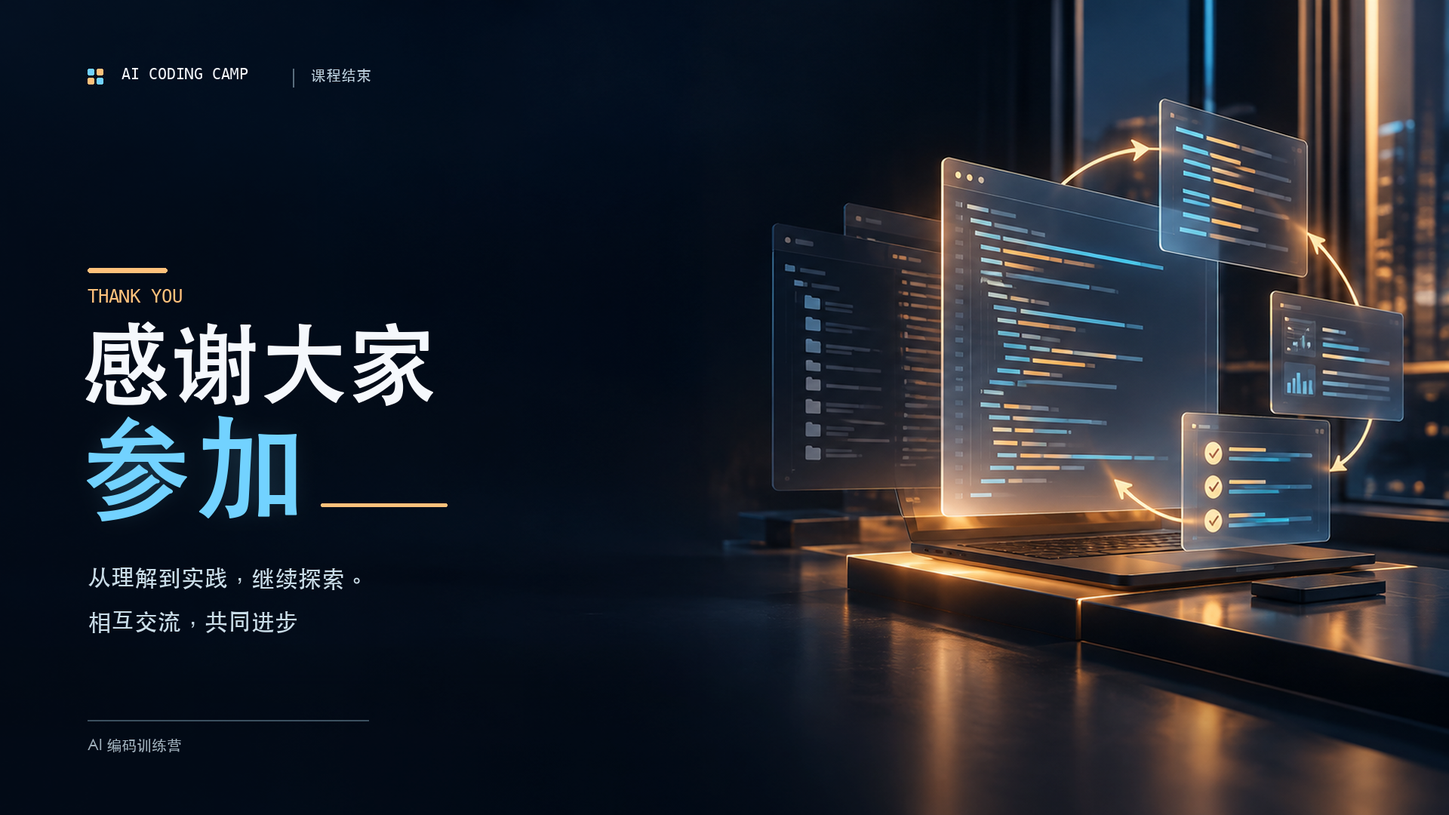
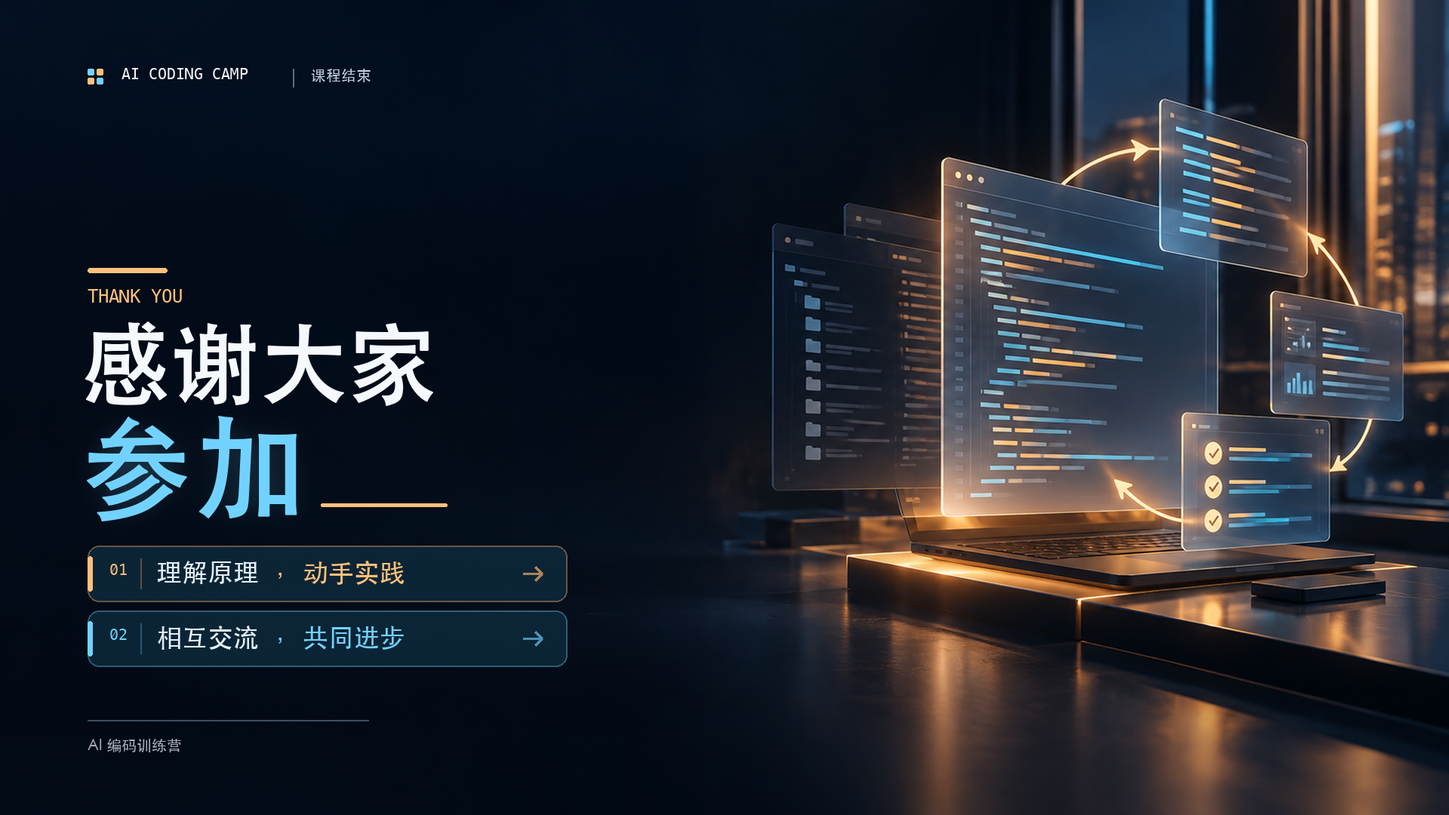
adjust final page

Changed region(s): [[0.0625, 0.6722, 0.4062, 0.825]]

diff --git a/output/ai-coding-camp/index.html b/output/ai-coding-camp/index.html
@@ -453,9 +453,9 @@
     </section>
 
     <section class="slide closing-slide" data-title="感谢大家参加" aria-label="结束封面：感谢大家参加 AI 编码训练营">
-      <img class="closing-art" src="closing-cover.png" alt="感谢大家参加 AI 编码训练营。从理解到实践，继续探索。相互交流，共同进步。背景是编码工作流插画。">
+      <img class="closing-art" src="closing-cover.png" alt="感谢大家参加 AI 编码训练营。理解原理，动手实践；相互交流，共同进步。背景是编码工作流插画。">
       <div class="notes">
-        <p>感谢大家参加 AI 编码训练营。结束页与开场封面使用同一张编码工作流插画；收尾寄语是“从理解到实践，继续探索。相互交流，共同进步”。</p>
+        <p>感谢大家参加 AI 编码训练营。结束页与开场封面使用同一张编码工作流插画；收尾寄语是“理解原理，动手实践；相互交流，共同进步”。上下两句各为四字加四字，作为课程方法与同伴交流的呼应。</p>
       </div>
     </section>
 

diff --git a/output/ai-coding-camp/build-closing-cover.py b/output/ai-coding-camp/build-closing-cover.py
@@ -36,7 +36,7 @@ cn_small = font(
         "/System/Library/Fonts/STHeiti Medium.ttc",
         "/System/Library/Fonts/Hiragino Sans GB.ttc",
     ],
-    31,
+    34,
 )
 cn_footer = font(
     [
@@ -61,15 +61,30 @@ mono_kicker = font(
 )
 
 
-def draw_chinese_line(draw: ImageDraw.ImageDraw, text: str, x: int, y: int, fill: tuple[int, int, int, int]) -> None:
-    """Place full-width punctuation at the same visual baseline as the Hanzi."""
-    cursor = float(x)
+def draw_motto_row(
+    draw: ImageDraw.ImageDraw,
+    y: int,
+    number: str,
+    left: str,
+    right: str,
+    accent: tuple[int, int, int, int],
+) -> None:
+    """Render matching four-character halves with a baseline-aligned comma."""
+    draw.rounded_rectangle(
+        (116, y, 751, y + 74), radius=15,
+        fill=(13, 42, 61, 204), outline=(*accent[:3], 105), width=2,
+    )
+    draw.rounded_rectangle((116, y + 14, 122, y + 60), radius=3, fill=accent)
+    draw.text((145, y + 24), number, font=mono, fill=accent, anchor="lt")
+    draw.line((186, y + 17, 186, y + 57), fill=(*accent[:3], 95), width=2)
+    text_y = y + 20
+    draw.text((207, text_y), left, font=cn_small, fill=(228, 240, 247, 255), anchor="lt")
+    comma_height = cn_small.getbbox("，", anchor="lt")[3]
     hanzi_height = cn_small.getbbox("进", anchor="lt")[3]
-    for char in text:
-        glyph_height = cn_small.getbbox(char, anchor="lt")[3]
-        punctuation_shift = hanzi_height - glyph_height if char in "，。" else 0
-        draw.text((round(cursor), y + punctuation_shift), char, font=cn_small, fill=fill, anchor="lt")
-        cursor += draw.textlength(char, font=cn_small)
+    draw.text((354, text_y + hanzi_height - comma_height), "，", font=cn_small, fill=accent, anchor="lt")
+    draw.text((401, text_y), right, font=cn_small, fill=accent, anchor="lt")
+    draw.line((693, y + 37, 718, y + 37), fill=(*accent[:3], 170), width=3)
+    draw.line((709, y + 28, 718, y + 37, 709, y + 46), fill=(*accent[:3], 170), width=3)
 
 base = Image.open(HERE / "cover.png").convert("RGBA")
 base = base.resize(SIZE, Image.Resampling.LANCZOS)
@@ -121,8 +136,8 @@ base = Image.alpha_composite(base, glow)
 draw.text((108, 427), "感谢大家", font=cn_font, fill=white, stroke_width=1, anchor="lt")
 draw.text((108, 552), "参加", font=cn_large, fill=cyan, stroke_width=1, anchor="lt")
 draw.rounded_rectangle((425, 667, 592, 671), radius=2, fill=amber)
-draw_chinese_line(draw, "从理解到实践，继续探索。", 116, 752, soft)
-draw_chinese_line(draw, "相互交流，共同进步", 116, 810, soft)
+draw_motto_row(draw, 723, "01", "理解原理", "动手实践", amber)
+draw_motto_row(draw, 809, "02", "相互交流", "共同进步", cyan)
 
 draw.line((116, 954, 488, 954), fill=(161, 204, 227, 92), width=2)
 draw.text((116, 978), "AI 编码训练营", font=cn_footer, fill=(204, 222, 233, 200), anchor="lt")

diff --git a/output/ai-coding-camp/AI编码训练营_逐页课堂讲稿.md b/output/ai-coding-camp/AI编码训练营_逐页课堂讲稿.md
@@ -1,0 +1,188 @@
+# AI 编码训练营｜逐页课堂讲稿
+
+对应课件：[index.html](index.html)，共 24 页。下面的正文可直接按口语讲述；*【操作】* 是放映、提问或现场演示提示，不必念出。涉及练习项目的构建、测试和提交，均指独立的 `myls` 练习仓库，不是在本课程资料仓库操作。
+
+## 第 1 页｜AI 编码训练营
+
+大家好，欢迎来到 AI 编码训练营。今天我们按“先理解，再动手”的顺序走。前半部分先弄明白：编码 Agent 到底怎么工作？它为什么能够读文件、运行命令、帮我们修改代码？它又为什么有时会理解错需求，或者做出我们没要求的事？
+
+后半部分，我们会用一个小项目练手：从零实现精简版 `ls` 命令，程序名叫 `myls`。重点不只是把代码写出来，而是把需求澄清、项目约定和测试驱动开发串成一个能反复使用的工作方法。先从 Agent 的发展脉络看起。
+
+## 第 2 页｜AI 编码 Agent 的发展脉络
+
+这张时间线不用背年份，我们看能力是怎样逐渐组合起来的。早期的重点是让模型理解和生成文本；模型规模和能力提升后，人可以用对话的方式提出任务、补充信息。检索和工具调用进一步让模型有机会获取外部资料、请求执行动作。再到今天，这些能力被组织进 Cursor、Claude Code、Codex 等编码产品里。
+
+图上几个时间段是重叠的，不是一个阶段结束，下一个才开始。下面的“模型 + 工具 ≈ Agent”也只是课堂上的简化比喻：模型负责判断，工具提供行动的可能。真正跑起来，还需要有一套机制组织上下文、执行工具、处理结果并控制何时结束。我们下一页就把这套机制拆开看。
+
+## 第 3 页｜最小 Agent 的运行时序
+
+这张图有五个角色：用户、Agent、会话上下文、语言模型和工具。举个例子，我们说“帮我看看项目里有哪些文件”。Agent 会先整理这轮问题和相关历史，再把当前可见的信息、可用工具一起交给模型。
+
+模型可能判断：“我得先列一下目录。”这里要注意，**模型提出工具调用请求，Agent 才负责实际执行**。工具返回文件列表，或者返回一个错误，Agent 都会记录下来，再把更新后的信息交给模型判断。需要更多信息，就继续调用工具；不需要了，模型给出最终答复，Agent 再回复用户并保存本轮记录。
+
+所以，一次任务可能是“思考、调用工具、看结果、再思考”的循环，也可能一步就直接回答。下一页换一张流程图，看看 Agent 在这个循环里还要把住哪些关口。
+
+## 第 4 页｜AI Agent 的最小运行框架
+
+从左往右看，Agent 先组装本轮请求。用户刚说的话、必要的会话历史、项目规则和工具说明，都可能成为模型这次能看到的信息。模型据此决定下一步：直接答复，或者请求某个工具。
+
+如果模型要调用工具，Agent 还得检查参数是否合理、有没有权限、是否超过运行上限，然后才能执行。执行完成后，再把输出、错误或状态交回模型。这一步可以重复很多次，也可能一次都不发生。
+
+有两个边界请大家记住：模型并不是自己在终端里敲命令；而如果工具被拒绝、超时或达到上限，也应如实说明，不能把“停止了”说成“完成了”。这张图是通用工作方式的教学示意，不代表某个产品的全部内部细节。既然框架是相通的，具体用哪个编码 Agent，就值得按任务来选。
+
+## 第 5 页｜Claude Code 不是唯一选择
+
+课程后面会用 Claude Code 做演示，但它只是可选工具之一。图上的每个点，是一组模型、Agent 和推理设置在 Databricks 自有代码任务上的评测结果；横向看成本，纵向看通过率。它能提醒我们：换一个组合，成本和表现都可能变化。
+
+不过，别把这张图当成所有项目通用的产品排行榜。评测任务、模型、设置不同，结果就可能不同；某个点更高，也不能简单说都是 Agent 品牌带来的差别。更实用的选择方法，是拿自己项目里的**同一个真实任务**试跑几种组合，比较完成质量、耗时、成本和操作体验。找到适合自己工作流的，比追一个统一的“第一名”有用。接下来，我们看看无论用哪个 Agent，都绕不开的上下文问题。
+
+## 第 6 页｜Agent 会话中的消息持续累积
+
+*【操作】让动画播放几秒，等消息增长到十几条时稍作停顿。*
+
+请看画面：从规则和用户问题开始，接着可能有模型发出的工具请求、工具返回的结果、模型给出的答复。下一轮提问来了，就继续往后追加。图中已经不止七条消息了，中间和末尾的省略号表示还有更多记录，并不是说一段会话只能保存画面上这些内容。
+
+连工具请求和工具结果也各自占一条记录，所以做几步操作后，会话很容易变长。但这里要分清两件事：**会话保存了多少消息**，和**某一次模型调用实际看见多少内容**，不一定相同。具体产品可能截取、摘要或按需组织历史。那当本轮可见的信息也变得很长时，会有什么影响？下一页看一条示意曲线。
+
+## 第 7 页｜上下文变长，模型表现可能下降
+
+先看横轴，它表示**单次模型调用实际可见的上下文长度**，不是刚才那页会话保存的消息总数。纵轴是相对任务表现。曲线前段比较平稳，中间慢慢下滑，接近窗口上限时下降更快，用来表达长上下文可能带来的问题。
+
+这是一张概念图，**不是某个模型测出来的成绩曲线**。真实表现会随模型、任务、信息放在哪里，以及输入内容本身而变化；窗口上限也不是所有模型共有的一道性能断崖。我们要记住的是：能装下很多 Token，不等于每次都该装满。信息太多、太杂，重要线索就更难被聚焦。那怎样把真正有用的内容交给 Agent？下一页接着说。
+
+## 第 8 页｜消息会累积，当前上下文要精选
+
+左边是不断增长的会话记录，右边是这一轮真正需要用到的线索。我们可以先问四个问题：这轮到底要做什么，怎样才算完成？项目有哪些长期有效的规则？权威资料在哪个文件、哪个章节？前面已经验证了什么，还有什么没解决？
+
+比如，只对 Agent 说“继续修”，它很难知道我们现在最在意什么。换成“修这个失败用例；失败命令是……；实际输出是……；期望输出是……”，下一步就清楚多了。长期约定可以放在精简的项目指令中，本轮特有要求放在本轮任务里。具体如何截取或摘要历史，要看 Agent 的实现。我们再把这些想法整理成四个可操作的步骤。
+
+## 第 9 页｜四步把上下文变成可执行线索
+
+这四步可以按“目标、资料、轮次、反馈”来记。第一步，**定目标**：这次只完成什么、边界在哪里、什么结果算通过。第二步，**给线索**：指出可信的文件和章节，让 Agent 找到依据，而不是让它在一大堆材料里猜。第三步，**控轮次**：大任务拆成一个个能验收的小任务，交接时说明已完成、已验证和待解决的内容。
+
+第四步尤其重要，**用证据反馈**。如果测试失败，不只说“还是不对”，而是给出运行命令、实际输出、期望结果和相关约束；修完以后，再跑受影响的验证。这样，Agent 下一轮看到的是事实，不是一句模糊评价。当然，文字写得再好，也不能代替真实可用的工具、权限和运行环境。说到长期规则，下一页看看项目指令文件是怎样进入上下文的。
+
+## 第 10 页｜CLAUDE.md 启动时自动进入上下文
+
+*【操作】让左侧终端输入 `claude`，观察右侧上下文窗口的变化。*
+
+现在假设我们已经进入一个练习项目，里面有适用的 `CLAUDE.md`。在终端启动 Claude Code 后，它会在会话开始时读取这类项目指令。也就是说，我们还没输入具体任务，模型当前可见的信息里就已经有一份项目约定了，比如先看相关文件、只改本轮范围、修改后做验证。
+
+可以把它理解成新同事入项目前先拿到的“项目须知”，省去每次重新解释的功夫。图上的“01”表示本页强调的是**启动阶段的项目指令**，不是说它在所有系统信息里绝对排第一；右侧窗口也只是教学示意，不是真实界面截图。实际会话里可以用 `/context` 查看加载情况。既然它会反复影响后续任务，我们就得想清楚：文件里到底该写什么？
+
+## 第 11 页｜CLAUDE.md / AGENTS.md：写什么？
+
+项目指令文件不用写成一本手册。真正值得放进去的，是**长期适用、项目特有、具体可检查**的内容。可以归成四类：项目是做什么的、以哪份规格为准；源码和测试在哪些目录、真实的构建和测试命令是什么；哪些兼容性、错误处理和修改边界不能越过；以及修改后怎样验证、交付时要报告什么。
+
+比如“保证代码质量”就很空；“改完运行项目测试，并报告失败项”更容易执行。临时任务放在当前提问里，完整规格放在专门文档里，项目指令只需指向正确的位置。`CLAUDE.md` 和 `AGENTS.md` 选哪个，也要看实际使用的工具与配置；有文件不等于 Agent 一定正确加载，更不等于规则成了强制权限。理解了项目上下文怎样准备，我们就进入动手实践。
+
+## 第 12 页｜从零实现精简版ls命令
+
+从这一页开始，我们从“Agent 怎样工作”切换到“怎样和 Agent 一起开发”。练习题目是从零实现精简版 `ls`，我们的程序叫 `myls`。右边终端里的文件名和输出，只是目标效果的示意，不是现在已经运行出来的成果。
+
+这次实践有四条方法：**先澄清需求；按需求做最小实现；逐步增量开发、每步验证；测试先行，先写测试再实现。**这里的“精简版”不等于复制系统 `ls` 的所有行为。我们先别急着写代码。如果需求提出人只留下一句“从零实现精简版 ls 命令”，你会先问什么？
+
+## 第 13 页｜先把一句话需求问清楚
+
+左边这一句话听起来像个完整题目，但真正动手时，问题会接连冒出来：用什么语言？在哪个平台运行？“精简”到底包含哪些功能？怎么判断做完了？如果这些问题没人回答，不同开发者做出的程序可能都“看起来像 ls”，但彼此完全不一样。
+
+所以，我们先和需求提出人沟通，形成右边更具体的交付目标：用 C 语言，在 Linux 上开发 `myls`；说清支持的选项、路径参数数量，以及多列、颜色、递归等不做的范围。比如 `-h` 必须和 `-l` 一起使用，不能让 Agent 自己猜。输出字段、排序、时间和错误行为，再交给后面的验收契约确定。
+
+请留意最后一句：系统 `ls` 只是部分语义的参考，不是逐字节照抄的标准答案。需求澄清做的事，就是把“我以为”变成双方能够共同检查的约定。目标具体多了，如果现在一股脑交给 Agent 一次生成，会怎样？
+
+## 第 14 页｜把交付目标直接交给 Agent
+
+*【操作】先不点按钮，请学员猜一猜；听过几种猜测后，点击“揭示可能的问题”。*
+
+我们做个思想实验：把刚才的交付目标原样发给 Agent，没有补充版本控制、项目结构、开发节奏和验证方式，直接说“请一次完成”。它可能很快产出代码。可我们拿到代码后，应该检查什么？
+
+这页列出的不是必然发生的结果，而是现场演示时值得观察的风险：有没有版本历史？源码、测试和文档是否放在合适的位置？构建产物是不是混进了交付目录？如果全部功能一次写完，出错时好不好定位、好不好审核？还有一个关键点：如果先写实现、后补测试，测试会不会只是在迁就已经写好的代码？
+
+真正的结果要以独立练习仓库里的现场演示为准。为了让开发可控，我们先得把“到底要实现哪些行为”整理成清单。
+
+## 第 15 页｜需求列表
+
+经过需求分析和评审，我们拿到了这张需求列表。左边是**遇到的场景**，右边是**约定的行为**。例如，不给路径就列当前目录；给一个目录就列那个目录；给多个路径明确报错。普通模式每行输出一个名称，不显示隐藏项，并按字节序升序排列。
+
+选项也是逐个定义的：`-a` 包含以点开头的条目，包括 `.` 和 `..`；`-t` 改成按修改时间排序；`-l` 输出课程规定的固定长格式；`-h` 只改变长格式里的大小字段，单独使用要报参数错误。`--help` 应直接输出帮助并成功退出，不去读取目录。路径不存在或无权限时，错误写到标准错误，不能在标准输出里伪造结果。
+
+这张表解决的是“要覆盖哪些行为”。要做成可验收的程序，还得进一步说清字段、排序细节、时间格式和错误退出码。下一页就是更细的验收契约。
+
+## 第 16 页｜验收契约
+
+如果上一页回答“要做哪些事”，这一页回答“怎样才算做对”。规则不少，不必逐字朗读，我们抓几处最影响实现和测试的地方。
+
+先看参数：短选项可以合写或分写，选项要在路径前；路径必须是目录；`--help` 只能单独使用。再看排序：默认按名称升序；用了 `-t`，按修改时间从新到旧，时间相同还要按名称升序，这样结果才确定。读目录条目元数据时用 `lstat`，所以符号链接按链接本身处理。长格式的字段顺序、空格、UTC 时间，以及 `-h` 的大小换算，都有课程自己的固定规则，不能直接复制某台机器上的系统 `ls` 输出。
+
+下面的小例子最适合拿来写测试。`demo` 里有 `a`、`b` 和 `.hidden`：普通模式只输出 `a`、`b`；加 `-a` 后，还要包含 `.`、`..` 和隐藏项。单独用 `-h`，或者访问不存在的路径，应返回错误。如果读目录或取某个条目的元数据失败，整次操作都应失败，不能先打印一半结果。验收时要分别看**标准输出、标准错误和退出码**，不能只看屏幕上有没有几行字。有了这份契约，我们才适合搭工程骨架，按小步开发。
+
+## 第 17 页｜从需求契约进入开发
+
+现在才真正进入开发阶段。先在**独立的 `myls` 练习仓库**初始化 Git，再建工程骨架：`.gitignore`、`Makefile`、`include/`、`src/`、`tests/` 等各有位置。接着写 `CLAUDE.md`，告诉 Agent 项目目标、权威需求、真实命令、开发边界和验证方式。然后做一次 `build project skeleton` 的初次提交，留下可回退的工程起点。右侧目录树展示的是计划建立的结构，不是本课程资料仓库里的源码。
+
+之后按小步开发。图里的常见 TDD 循环是 **Red、Green、Refactor**：先写当前行为的测试并确认它失败，再写最少代码让它通过，最后整理代码并保持测试通过。本课程的实践还强调 **Review**：人要审查测试断言、实现范围和回归结果，确认后再提交。不要在 Red 阶段就把未通过的测试提交成基线。项目骨架有了，下一页具体看 `CLAUDE.md` 怎么写。
+
+## 第 18 页｜CLAUDE.md 怎么写
+
+*【操作】先问“如果现在让你写，第一稿从哪里来？”，再点击“查看两种写法”。*
+
+第一种是直接创建 Markdown 文件，自己写。适合已经熟悉项目事实，也清楚哪些约定需要长期保留的人。第二种是在 Claude Code 会话里先运行 `/init`，让它生成初稿；然后提供交付目标和协作要求，人工增删改，再请它继续优化。这里的 `/init` 和后续提示词是**连续两步**，不是一条固定的“`/init + 提示词`”命令。
+
+*【操作】打开“查看示例提示词”，展示可复制内容；返回后再打开“其他信息”。*
+
+示例里包含交付目标、开发原则和构建测试入口；“其他信息”还补上 TDD 的 Red → Green → Review 约定、提交纪律、测试视角与禁止事项。课堂上不必把长文本逐行念完，重点是提醒大家：AI 可以帮忙起草，**真实目录、命令、规则和验收依据仍要由人核对**。项目刚起步时，能供 `/init` 发现的信息也有限。写好共同的项目约定，下一页就用同一套起点比较三种开工路径。
+
+## 第 19 页｜同一任务，三条开工路径
+
+这次我们做一个对照：三次演示从相同的项目骨架、相同的 `CLAUDE.md` 出发，也使用同一句任务提示词：“开始需求开发，需求场景：无路径参数；行为：列出当前目录。”普通对话可能直接着手处理；Plan 模式先探索项目、提出计划供人审查；Grill Me 是第三方 Skill，先通过多轮提问挖出没有说清的选择。
+
+*【首次到本页】先请学员记下观察点和自己的猜测：Agent 会先问什么？什么时候写代码？谁来确认假设？测试会覆盖什么？此时先不点击“期望输出”。可以说：“先别看答案，下一页我们写下演示前预测。”*
+
+*【三条路径现场演示后返回本页】点击“期望输出”，再讲下面这段。*
+
+按钮里藏着本次对照实验的讲师预设：包含隐藏项但不包含 `.`、`..`，不做排序；测试非空目录、空目录、含空格名称，以及两个不同目录。这些条件**没有放进三条路径共用的任务提示词**。请注意，这是一组用于观察需求澄清能力的实验预设，**不替代第 15、16 页的完整 `myls` 验收契约**；两者对隐藏项和排序的规定不同。讨论时要明确当前采用哪一套约定，不能把实验结果直接当成正式需求的验收结论。看过预设以后，回到下一页核对预测。
+
+## 第 20 页｜三种路径的演示前预测
+
+这张表是**演示前的预测**，不是已经测出来的排名。我们从四个方向看：需求有没有问清楚？测试覆盖了关键场景吗？有没有擅自扩展？花了多少时间、需要多少人工介入？
+
+普通模式可能启动得快，但没写明的细节也可能被自行补全。Plan 模式先把实施步骤摆出来，便于我们审查范围和方案；不过计划很完整，不代表需求一定问清。Grill Me 前期问答较多，可能更早暴露隐含假设，但问清之后还需要有人落实实现与验证。测试覆盖最终要看实际断言，不能只看对话听起来是否周全。
+
+可以用三句话记住各自的主要作用：Grill Me 帮我们追问**要什么**，Plan 模式讨论**怎么做**，TDD 用测试先行、小步回归和人工审查来检查**做得对不对**。它们有交集，也都不能替人确认真实需求。现在把预测记下来，等现场演示后，再根据对话、代码和测试结果修正这张表。
+
+*【操作】暂停放映，在有权限的独立练习仓库中，按相同骨架和提示词演示三条路径，记录提问、改动、测试和耗时。演示结束后返回第 19 页，点击“期望输出”，说明它只是本次对照的预设；再回到本页核对预测。之后翻到第 21 页。*
+
+## 第 21 页｜实际开发中用什么模式
+
+刚才把预测和现场过程对照以后，回到最实际的问题：开发时到底选哪种方法？答案取决于项目。需求已经非常清楚、改动也很小时，流程可以简洁些；需求模糊、边界多、修改代价高时，先澄清和审查计划就更值得。这里说的“模式”是课堂上的宽泛说法：Grill Me 是第三方提问 Skill，Plan 是 Claude Code 的工作模式，TDD 是开发方法。它们不是同一类开关，也没有固定的优劣排名。
+
+接下来我们把它们串起来试一次：从工程骨架出发，先用 Grill Me 追问“要什么”，再用 Plan 模式形成并审查“怎么做”，最后按 Red → Green → Review 小步实现和验证。需要时还可以用 `/code-review` 辅助检查当前改动，但发现的问题仍要由人判断、修复和复验。看过这条路线，后续需求就交给大家练习。
+
+*【操作】本页讲完后暂停放映，切到独立练习仓库带做一个小任务。先确认所在目录、工具权限和当前分支；让学员审查澄清结论与计划，再展示失败测试、最小实现、回归结果和改动 diff。完成后翻到第 22 页。*
+
+## 第 22 页｜实践任务：完成后续需求开发
+
+前面的带做演示了怎样开工。后续练习以**需求列表和验收契约**为依据，逐项实现并验证。不要只看程序能不能运行，还要回到约定的输出、错误和退出码上检查。
+
+页面上有练习项目的仓库链接。开始前，先从已有基线创建自己的分支，分支名按 `工号1_工号2` 这个格式；只在新分支提交，不要直接提交到 `develop` 或 `master`。提交前看一眼当前分支、改动内容和验证结果。我们前面讨论的代码和命令都应发生在这个独立练习项目里。布置完任务，最后用一页把今天的方法串起来。
+
+## 第 23 页｜课程回顾：从理解 Agent 到可验证交付
+
+今天的内容可以串成四步。第一，理解 Agent 怎样把模型、工具和上下文连成一个运行循环。第二，为项目准备清楚的协作上下文，用适用的 `CLAUDE.md` 或 `AGENTS.md` 告诉它长期规则和验证方法。第三，面对模糊需求，先分析、澄清“要什么”，形成可以检查的行为和验收条件，再讨论“怎么做”。第四，用测试先行、最小实现和每步审查，把任务推进到可验证的结果。
+
+这四步连起来才有用：Agent 再能干，也不会自动知道我们没说出的期望；计划再漂亮，也不能代替真实测试；测试全绿，也要确认断言本身对不对。把要求讲明白，把工作拆小，把结果验清楚，是今天最希望大家带回实际项目的方法。最后，感谢大家今天一起参与。
+
+## 第 24 页｜感谢大家参加
+
+今天我们从理解 Agent 的工作原理，走到组织一次完整的开发实践。希望大家课后挑一个真实的小需求继续尝试：先问清楚要什么，再选合适的工具和流程，最后用实际结果验证。
+
+也欢迎大家交流各自使用 Agent 的经验、碰到的问题和解决办法。**理解原理，动手实践；相互交流，共同进步。**感谢大家参加！
+
+## 讲师备查资料（不必在课堂朗读）
+
+- 第 5 页图表背景：[Databricks 编码 Agent 评测](https://www.databricks.com/blog/benchmarking-coding-agents-databricks-multi-million-line-codebase)。该图只反映其评测任务和配置。
+- 第 7 页概念曲线的研究背景：[RULER](https://arxiv.org/abs/2404.06654)、[NoLiMa](https://arxiv.org/abs/2502.05167)。课件曲线不是这两项研究的实测数据。
+- 第 10、11、18 页产品说明：[Claude Code 项目指令与记忆](https://code.claude.com/docs/en/memory)、[Claude Code 命令参考](https://code.claude.com/docs/en/commands)。
+- 第 19—21 页模式说明：[Claude Code Plan 模式](https://code.claude.com/docs/en/permission-modes#analyze-before-you-edit-with-plan-mode)、[Grill Me 作者说明](https://github.com/mattpocock/skills/blob/main/docs/productivity/grill-me.md)、[Claude Code 本地代码审查](https://code.claude.com/docs/en/code-review-local)。
+- 第 17、20、21 页方法参考：[TDD 介绍](https://martinfowler.com/bliki/TestDrivenDevelopment.html)。本课实际练习采用带人工审查的 Red → Green → Review 检查点。
+gvblkbh 
